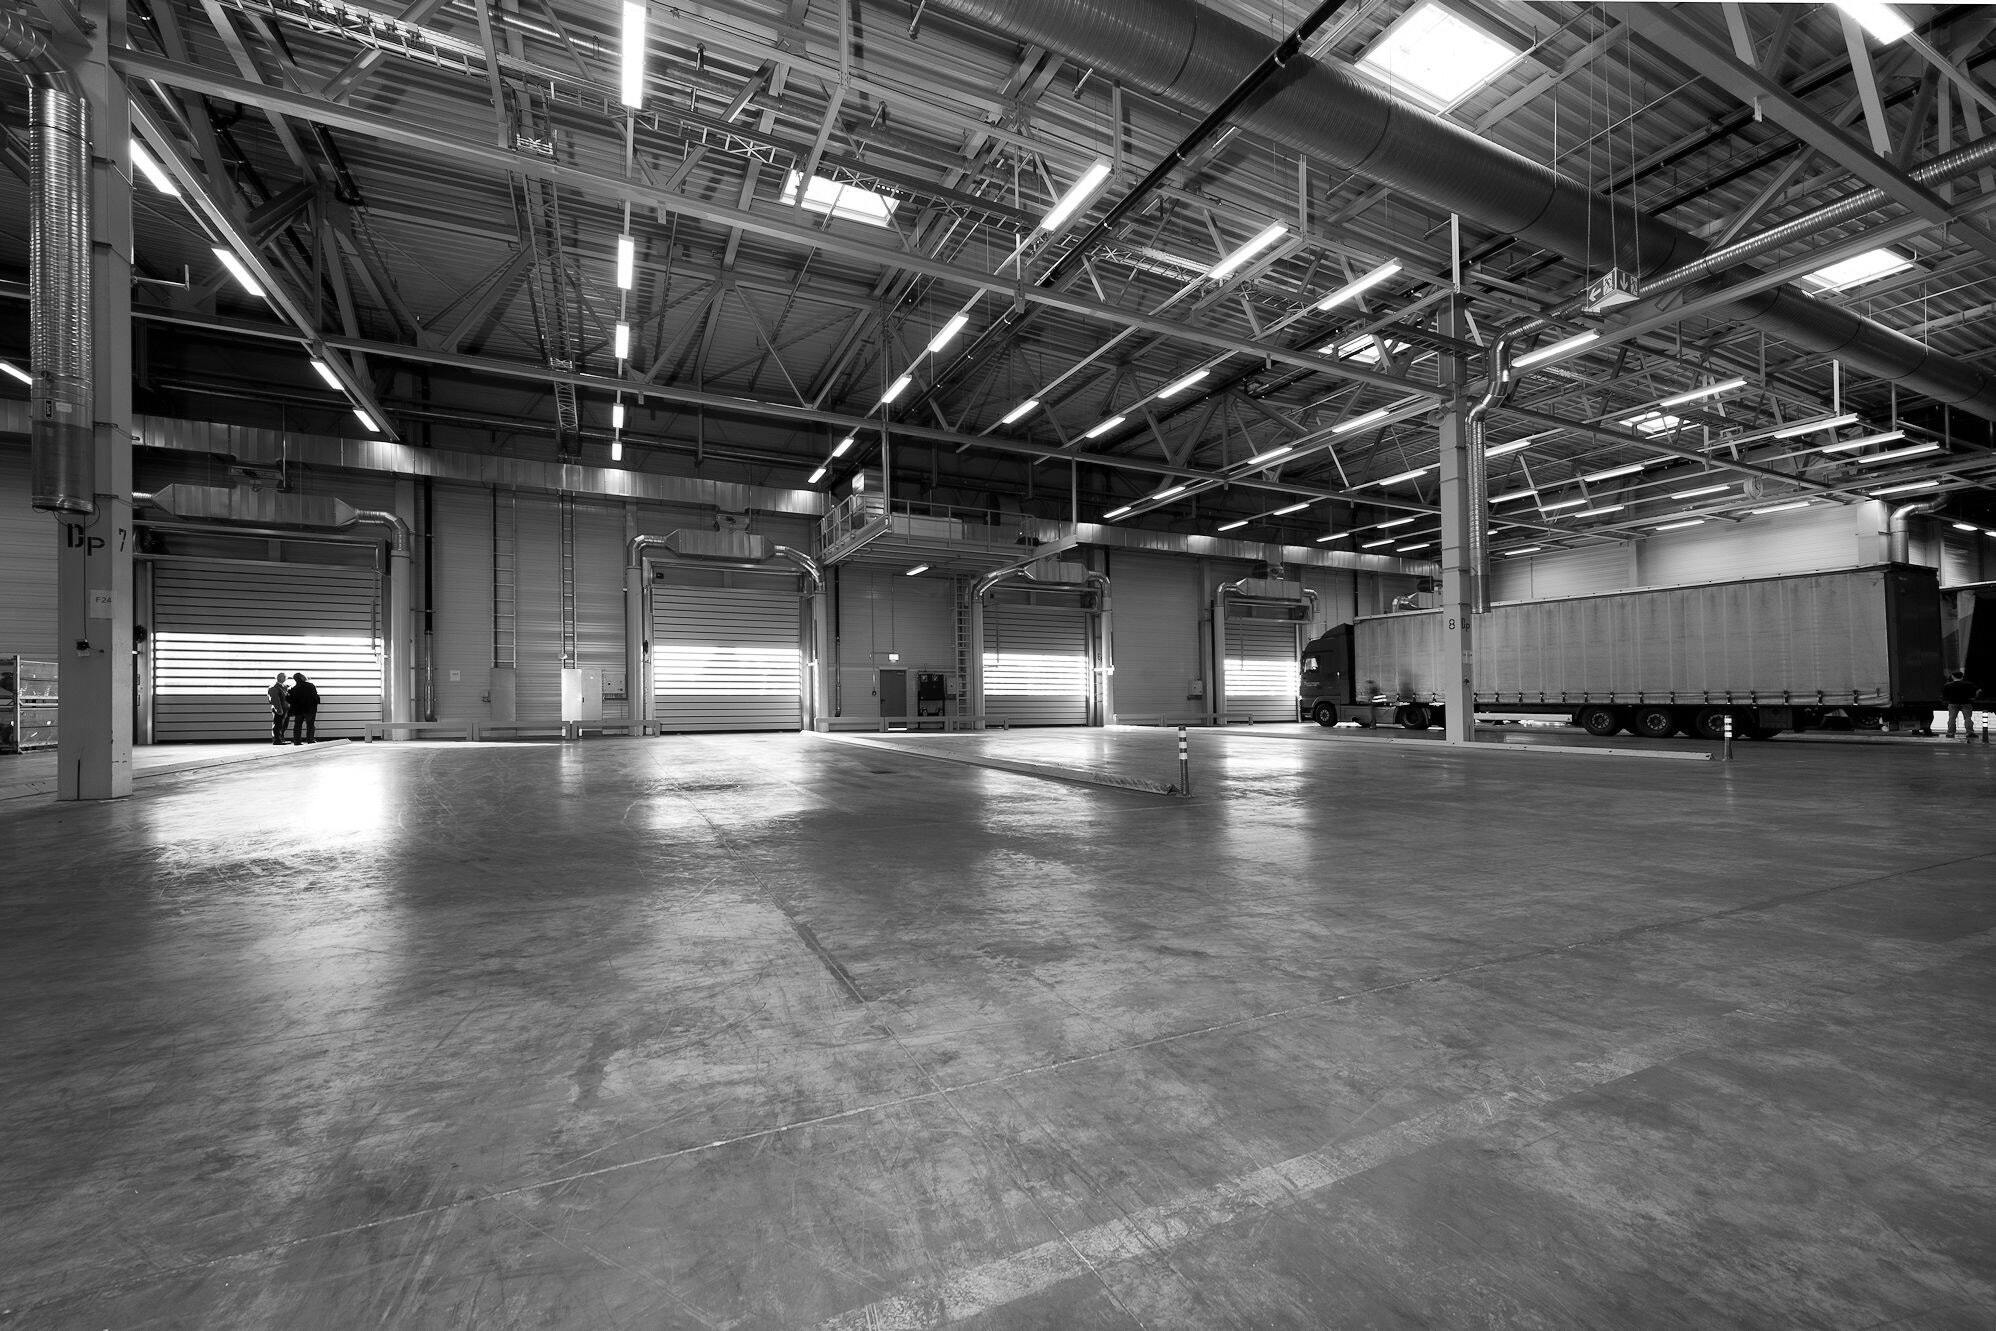
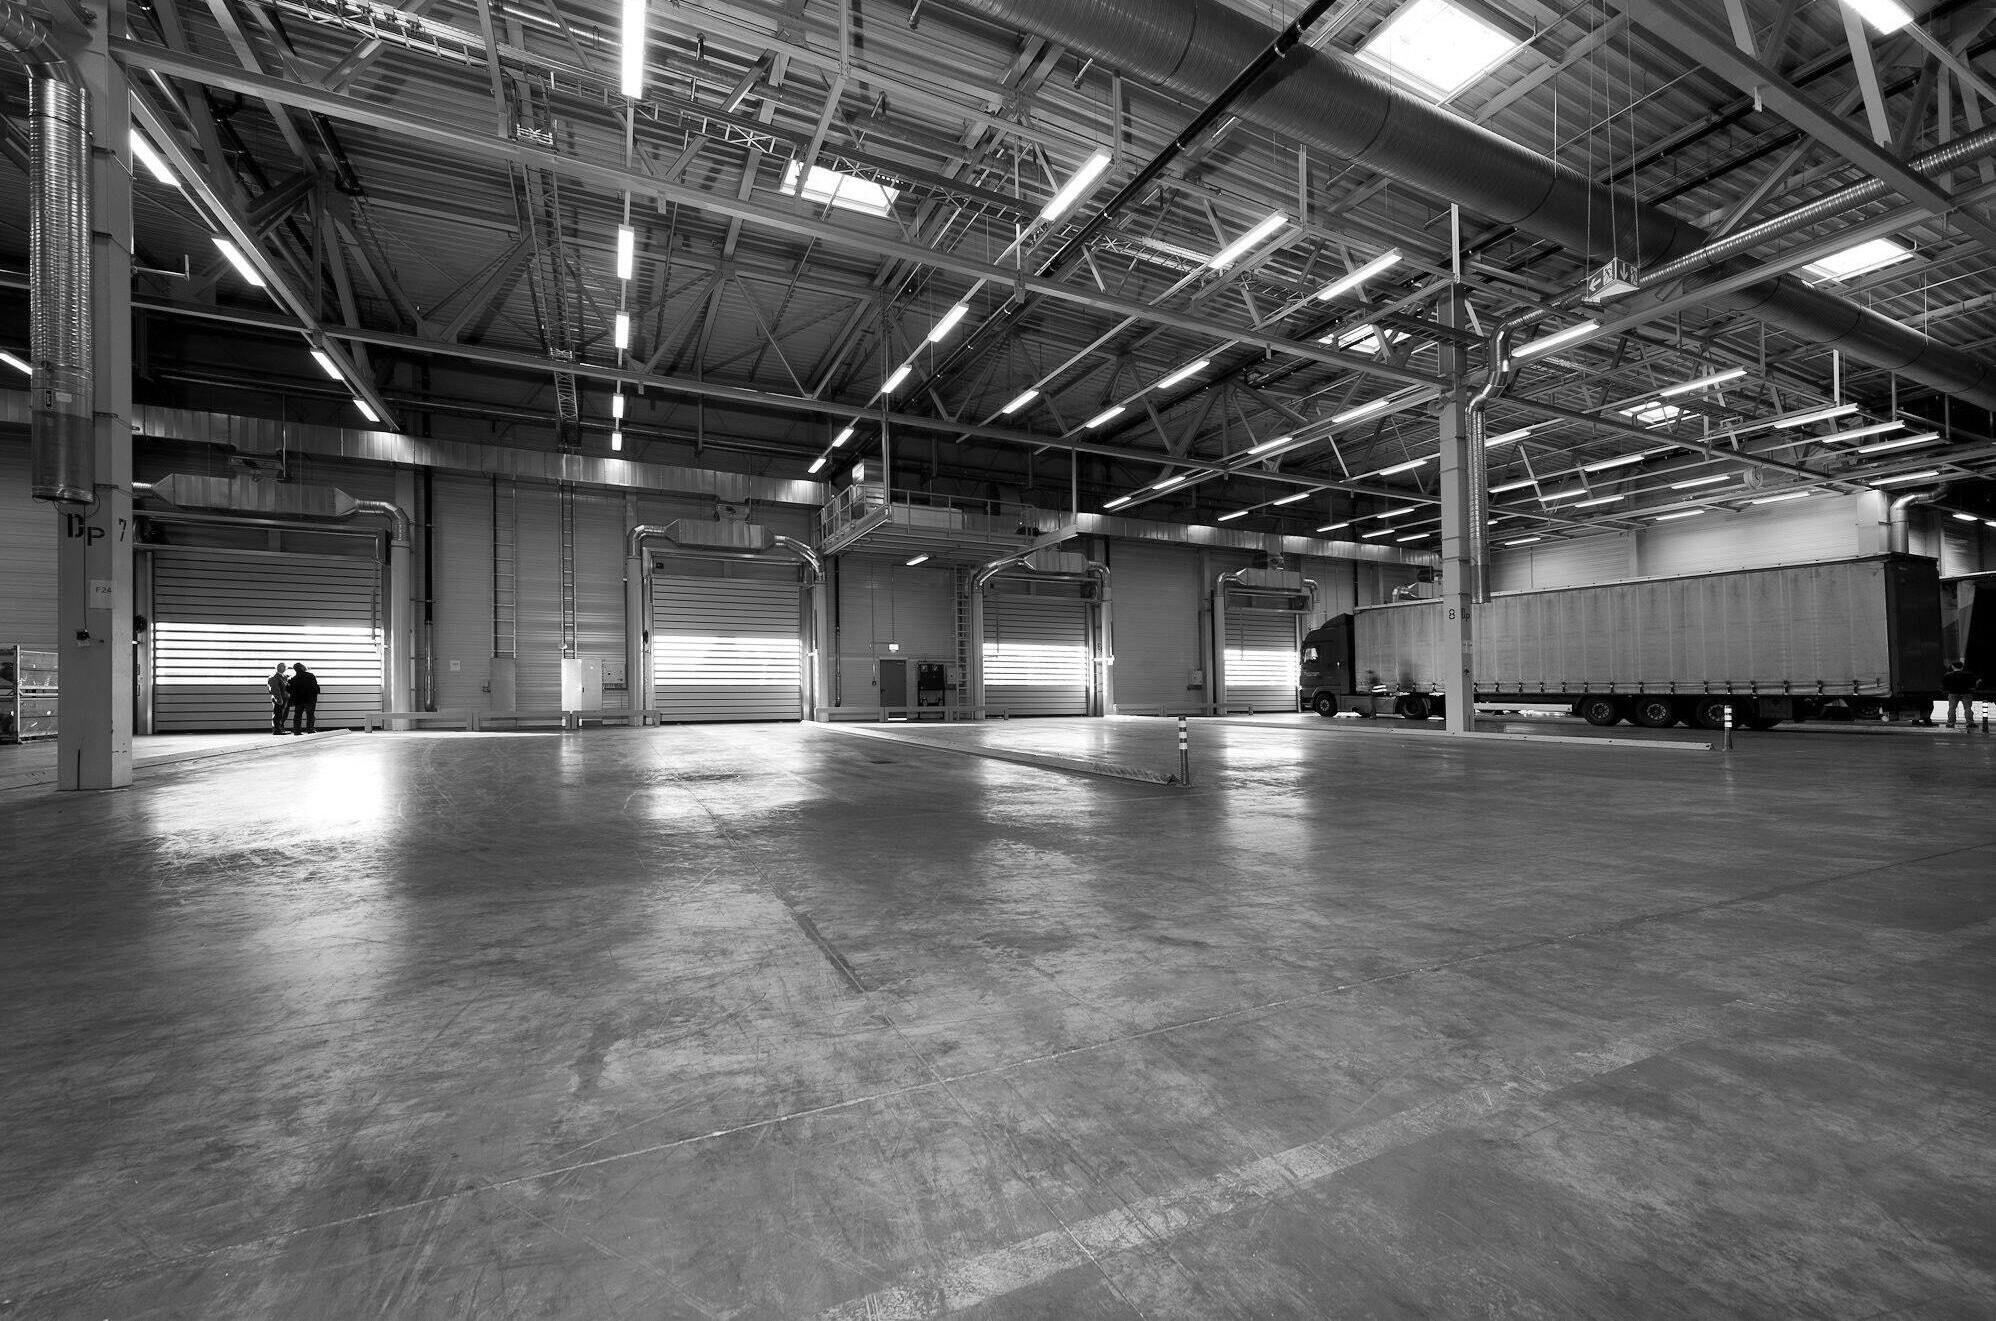
cropped hero image to remove white streak

Changed region(s): [[0.0, 0.0, 1.0, 0.869], [0.1553, 0.7449, 0.1864, 0.838], [0.7455, 0.807, 0.7766, 0.838]]

diff --git a/www/style.css b/www/style.css
@@ -134,8 +134,8 @@ body {
 	align-items: center;
 	justify-content: center;
 	justify-content: center;
-	height: max(90vh, 32rem);
-	background-image: url("img/hashed/hero-42dfafe7792ebc52.webp");
+	height: max(75vh, 32rem);
+	background-image: url("img/hashed/hero-c65d046d64c3e8b6.webp ");
 	/* Position and center the image to scale nicely on all screens */
   background-position: center;
   background-repeat: no-repeat;

diff --git a/www/sw.js b/www/sw.js
@@ -23,7 +23,7 @@ const whitelist = [
 	"/",
 	"/style.css",
 
-	"/img/hashed/hero-42dfafe7792ebc52.webp",
+	"/img/hashed/hero-c65d046d64c3e8b6.webp",
 
 	"/img/hashed/icon32-a2fbcf30da694fcf.webp",
 	"/img/hashed/icon46-112e6420dd915aad.webp",

diff --git a/README.md b/README.md
@@ -1,5 +1,9 @@
 ## Project layout
 
+Top level there's two makefiles, one for generating html from markdown, and one for hasing images.
+
+TODO: merge these
+
 ### static/
 
 Markdown. HTML, Original Images.
